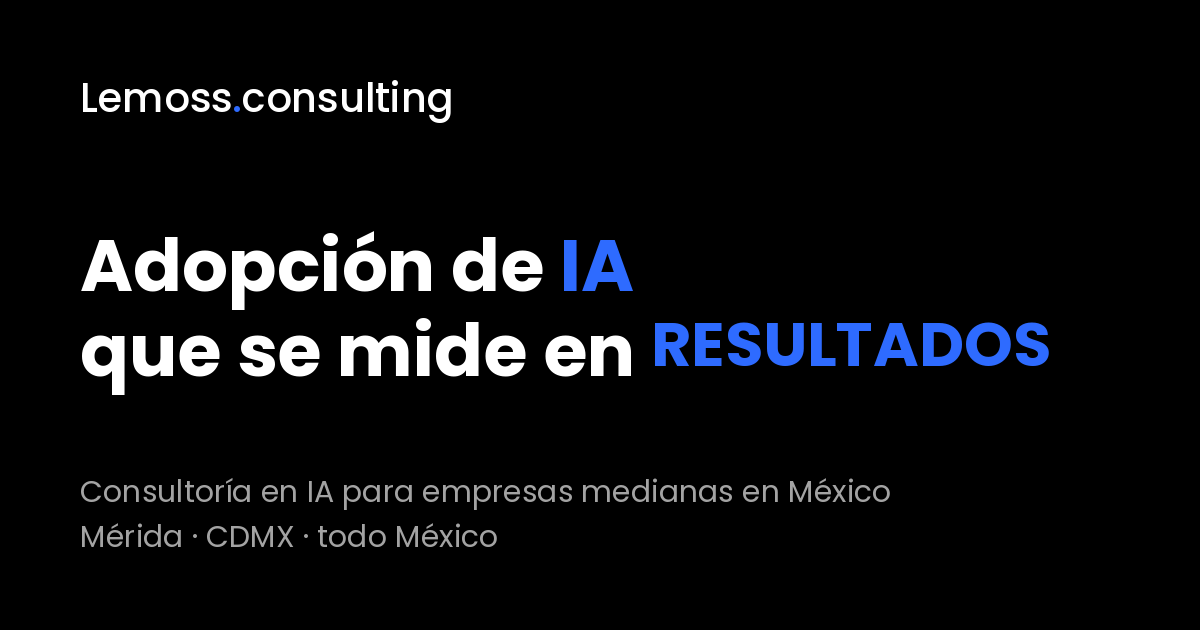
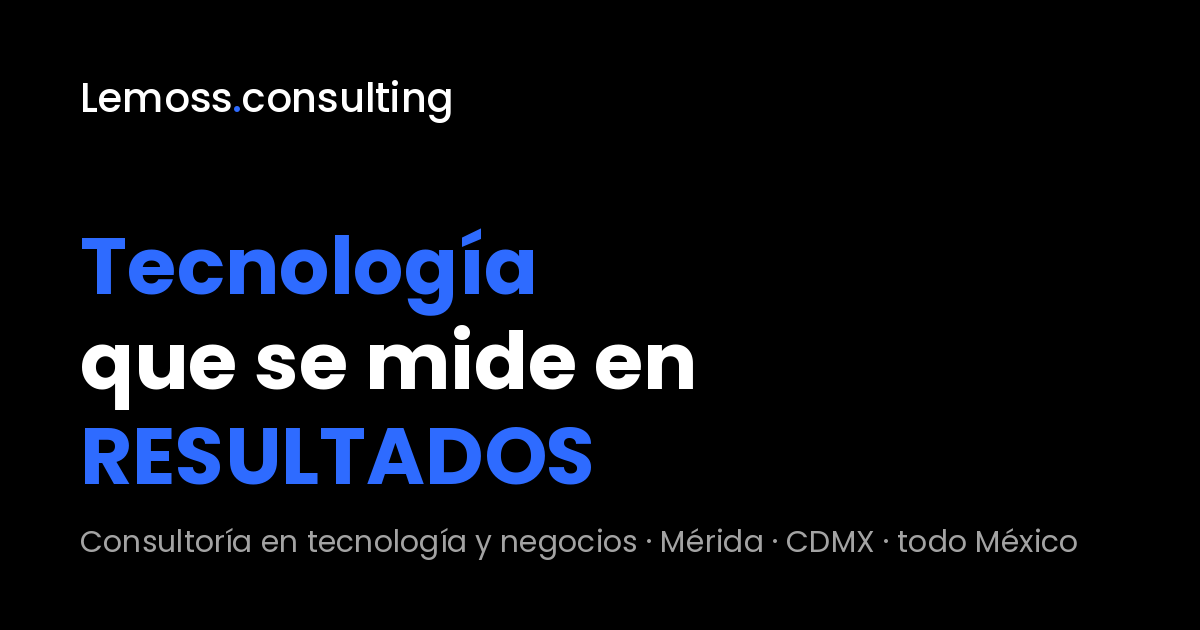
lemoss.co: reposiciona como consultoría en tecnología y negocios; IA vía timewins.ai
Claude-Session: https://claude.ai/code/session_01VRDKeWs85U62Gf7eqkwrSK

Changed region(s): [[0.0617, 0.3619, 0.8942, 0.9048]]

diff --git a/apps/lemoss/build.py b/apps/lemoss/build.py
@@ -9,7 +9,7 @@ HOY = datetime.date.today().isoformat()
 import hashlib
 CSS_V = hashlib.md5((ROOT / "assets" / "site.css").read_bytes()).hexdigest()[:10]
 WA = "525527069296"
-WA_TXT = "Hola, vengo de lemoss.co y quiero platicar sobre un proyecto de IA."
+WA_TXT = "Hola, vengo de lemoss.co y quiero platicar sobre un proyecto."
 EMAIL = "contacto@lemoss.co"
 
 SAME_AS = [
@@ -87,7 +87,7 @@ def layout(path, title, desc, body, schema=None, og_type="website", extra_head="
   <div class="wrap pie-in">
     <div>
       <a class="logo" href="/">lemoss<span>.</span></a>
-      <p class="muted">Consultoría en inteligencia artificial por resultados para empresas medianas en México. Sede en Mérida, con atención en CDMX y todo el país.</p>
+      <p class="muted">Consultoría en tecnología y negocios por resultados para empresas medianas en México. Sede en Mérida, con atención en CDMX y todo el país.</p>
     </div>
     <div>
       <h2 class="pie-t">Contacto</h2>
@@ -120,7 +120,7 @@ ORG = {
     "url": SITE + "/",
     "logo": SITE + "/assets/lemoss-logo-1024.png",
     "image": SITE + "/assets/og.png",
-    "description": "Consultoría en inteligencia artificial y automatización por resultados para empresas medianas en México: diagnóstico, piloto con meta pactada, implementación y operación.",
+    "description": "Consultoría en tecnología y negocios por resultados para empresas medianas en México: estrategia tecnológica, procesos, sistemas, ventas e inteligencia artificial, con diagnóstico, piloto con meta pactada, implementación y operación.",
     "email": EMAIL,
     "telephone": "+52 55 2706 9296",
     "priceRange": "Desde $18,000 MXN",
@@ -129,14 +129,14 @@ ORG = {
     "openingHoursSpecification": [{"@type": "OpeningHoursSpecification", "dayOfWeek": ["Monday", "Tuesday", "Wednesday", "Thursday", "Friday"], "opens": "09:00", "closes": "18:00"}],
     "founder": {"@id": SITE + "/sobre/#sebastian"},
     "sameAs": SAME_AS,
-    "knowsAbout": ["Inteligencia artificial aplicada a ventas", "Automatización de procesos", "CRM y WhatsApp Business API", "Agentes de IA", "Integración de sistemas", "Arquitectura de plataformas"],
+    "knowsAbout": ["Estrategia tecnológica", "Modelos de negocio de servicios tecnológicos", "Transformación digital", "Automatización de procesos", "Inteligencia artificial aplicada a negocios", "CRM y WhatsApp Business API", "Agentes de IA", "Integración de sistemas", "Arquitectura de plataformas"],
 }
 PERSONA = {
     "@context": "https://schema.org",
     "@type": "Person",
     "@id": SITE + "/sobre/#sebastian",
     "name": "Sebastián Lemos",
-    "jobTitle": "Consultor en inteligencia artificial y automatización",
+    "jobTitle": "Consultor en tecnología y negocios",
     "worksFor": {"@id": SITE + "/#lemoss"},
     "url": SITE + "/sobre/",
     "image": SITE + "/assets/lemoss-avatar-800.png",
@@ -146,7 +146,7 @@ PERSONA = {
 WEBSITE = {"@context": "https://schema.org", "@type": "WebSite", "@id": SITE + "/#web", "url": SITE + "/", "name": "Lemoss", "inLanguage": "es-MX", "publisher": {"@id": SITE + "/#lemoss"}}
 
 ETAPAS = [
-    ("Autodiagnóstico", "Gratis · 10 minutos", "Respondes ocho preguntas sobre tus procesos y sabes de inmediato qué tan lista está tu empresa para aprovechar la IA y por dónde conviene empezar.", "/autodiagnostico/", "Hacer el autodiagnóstico"),
+    ("Autodiagnóstico", "Gratis · 10 minutos", "Respondes ocho preguntas sobre tus procesos y sabes de inmediato qué tan listo está un proceso para automatizarse y por dónde conviene empezar.", "/autodiagnostico/", "Hacer el autodiagnóstico"),
     ("Diagnóstico", "Desde $18,000 MXN · se acredita 100%", "Revisamos contigo procesos, datos y sistemas, calculamos cuánto te cuesta hoy cada proceso y te entregamos un plan priorizado con el retorno esperado de cada caso. El monto se descuenta completo si avanzamos al piloto.", None, None),
     ("Piloto con meta pactada", "Desde $45,000 MXN · 30 a 60 días", "Elegimos un proceso, fijamos por escrito una meta medible (por ejemplo tiempo de respuesta, prospectos atendidos o horas ahorradas) y lo ponemos a funcionar con tu equipo real.", None, None),
     ("Implementación", "Proyecto cerrado, honorario + bono o garantía", "Con el piloto probado, escalamos a más procesos o áreas. Tú eliges el modelo: precio cerrado, honorario base más bono por resultado, o garantía de resultado con condiciones por escrito.", None, None),
@@ -155,10 +155,11 @@ ETAPAS = [
 ]
 
 SERVICIOS = [
-    ("Ventas y atención con IA", "Respuesta inmediata a cada prospecto, calificación automática, seguimiento por WhatsApp y un CRM que se actualiza solo. Tu equipo comercial habla solo con quien está listo para comprar.", ["Agentes de IA en WhatsApp y web", "Lead scoring y asignación automática", "CRM conectado a WhatsApp Business API", "Seguimiento y reactivación de prospectos"]),
-    ("Operación y procesos", "Inventario, pedidos, cotizaciones y reportes que hoy dependen de capturas manuales y hojas de cálculo, conectados y automatizados de punta a punta.", ["Mapeo y rediseño de procesos", "Integración ERP, CRM y hojas de cálculo", "Inventario y ventas automatizados", "Tableros con la información en tiempo real"]),
-    ("Contenido y comunicación", "Producción de contenido con IA y supervisión humana: investigación, redacción, piezas multimedia y publicación en redes con un flujo de aprobación claro.", ["Coordinación editorial asistida por IA", "Generación de video y carruseles", "Publicación programada multicanal", "Análisis de desempeño del contenido"]),
-    ("Plataformas y arquitectura", "Cuando lo que necesitas no existe en el mercado, diseñamos la arquitectura y construimos la plataforma: desde sistemas de gestión hasta servicios para entidades financieras.", ["Arquitectura de servicios (PaaS)", "Sistemas de gestión a la medida", "APIs, microservicios y migración a la nube", "Seguridad y manejo responsable de datos"]),
+    ("Estrategia tecnológica y de negocio", "Diagnóstico de cómo la tecnología puede hacer crecer tu negocio: hoja de ruta, prioridades, presupuesto y modelos de negocio de servicios tecnológicos, con el retorno esperado de cada iniciativa.", ["Diagnóstico y hoja de ruta tecnológica", "Modelos de negocio de servicios tecnológicos", "Evaluación y selección de proveedores", "Acompañamiento a dirección"]),
+    ("Procesos y operación", "Inventario, pedidos, cotizaciones y reportes que hoy dependen de capturas manuales y hojas de cálculo, rediseñados, conectados y automatizados de punta a punta.", ["Mapeo y rediseño de procesos", "Integración ERP, CRM y hojas de cálculo", "Inventario y ventas automatizados", "Tableros con la información en tiempo real"]),
+    ("Sistemas y plataformas", "Cuando lo que necesitas no existe en el mercado, diseñamos la arquitectura y construimos la plataforma: desde sistemas de gestión hasta servicios para entidades financieras.", ["Arquitectura de servicios (PaaS)", "Sistemas de gestión a la medida", "APIs, microservicios y migración a la nube", "Seguridad y manejo responsable de datos"]),
+    ("Ventas y atención", "Respuesta inmediata a cada prospecto, calificación automática, seguimiento por WhatsApp y un CRM que se actualiza solo. Tu equipo comercial habla solo con quien está listo para comprar.", ["CRM conectado a WhatsApp Business API", "Lead scoring y asignación automática", "Seguimiento y reactivación de prospectos", "Medición del embudo comercial"]),
+    ("Adopción de inteligencia artificial", "Implementación de IA en procesos reales con supervisión humana: agentes, contenido y análisis. Lo hacemos con timewins.ai, nuestra marca especializada en adopción y herramientas de IA.", ["Agentes de IA en WhatsApp y web", "Contenido y comunicación asistidos por IA", "Capacitación de equipos en IA", "Herramientas de timewins.ai"]),
 ]
 
 CASOS = [
@@ -208,18 +209,19 @@ INDUSTRIAS = [
 ]
 
 FAQ = [
-    ("¿Qué significa consultoría en IA por resultados?", "Que antes de implementar acordamos por escrito una meta medible, como tiempo de respuesta, prospectos atendidos u horas ahorradas, y el trabajo se evalúa contra esa meta. En etapas avanzadas parte de nuestros honorarios puede depender de alcanzarla."),
+    ("¿Qué significa consultoría por resultados?", "Que antes de implementar acordamos por escrito una meta medible, como tiempo de respuesta, prospectos atendidos u horas ahorradas, y el trabajo se evalúa contra esa meta. En etapas avanzadas parte de nuestros honorarios puede depender de alcanzarla."),
     ("¿Cuánto cuesta trabajar con Lemoss?", "El autodiagnóstico es gratis. El diagnóstico empieza en $18,000 MXN más IVA y se acredita al 100% si continuamos. Un piloto con meta pactada empieza en $45,000 MXN más IVA y dura de 30 a 60 días. La implementación se cotiza según el alcance, con precio cerrado, honorario más bono o garantía de resultado."),
     ("¿Cuánto tiempo tarda en verse un resultado?", "El piloto está diseñado para medir un resultado en 30 a 60 días sobre un proceso real de tu empresa."),
     ("¿Para qué tamaño de empresa es?", "Principalmente para empresas medianas, de 20 a 250 colaboradores, con venta consultiva o procesos operativos que hoy dependen de mucho trabajo manual."),
     ("¿Trabajan solo en Mérida?", "No. Nuestra sede está en Mérida y atendemos a empresas de la Ciudad de México y de todo el país de forma remota, con visitas presenciales cuando el proyecto lo requiere."),
     ("¿Tengo que cambiar mis sistemas actuales?", "Normalmente no. Primero conectamos lo que ya usas (CRM, ERP, hojas de cálculo, WhatsApp, correo) y solo proponemos cambiar una herramienta cuando el ahorro lo justifica."),
+    ("¿Qué relación tiene Lemoss con timewins.ai?", "timewins.ai es nuestra marca especializada en adopción de inteligencia artificial y en herramientas de IA listas para usar. Lemoss se encarga de la consultoría general en tecnología y negocios; cuando un proyecto incluye IA, lo implementamos con timewins.ai."),
     ("¿Qué pasa con la información de mi empresa?", "Se usa solo para el proyecto, bajo confidencialidad, con accesos controlados y revisión humana en los procesos críticos. Los detalles están en el aviso de privacidad."),
 ]
 
 
 # ---------- Bloques ----------
-def cta_final(titulo="¿Platicamos de tu proyecto?", texto="Cuéntanos qué proceso te quita más tiempo o dinero. En una llamada de 30 minutos te decimos si la IA puede resolverlo y cómo lo mediríamos."):
+def cta_final(titulo="¿Platicamos de tu proyecto?", texto="Cuéntanos qué proceso te quita más tiempo o dinero. En una llamada de 30 minutos te decimos si la tecnología puede resolverlo y cómo lo mediríamos."):
     return f"""<section class="sec cta-fin"><div class="wrap"><div class="cta-in">
 <h2>{titulo}</h2><p class="lead">{texto}</p>
 <div class="acciones"><a class="btn" href="{wa()}" rel="noopener">Escríbenos por WhatsApp</a><a class="btn btn-2" href="/autodiagnostico/">Hacer el autodiagnóstico</a></div>
@@ -270,20 +272,20 @@ def home():
     inds = "".join(f"<li><strong>{n}</strong><span>{d}</span></li>" for n, d in INDUSTRIAS)
     body = f"""
 <section class="hero"><div class="wrap">
-<h1>Adopción de <span class="az">IA</span> que se mide en <span class="az">RESULTADOS</span></h1>
-<p class="lead">Ayudamos a empresas medianas en México a automatizar ventas, atención y operación con IA. Antes de empezar acordamos una meta medible, y el trabajo se evalúa contra ella.</p>
+<h1><span class="az">Tecnología</span> que se mide en <span class="az">RESULTADOS</span></h1>
+<p class="lead">Consultoría en tecnología y negocios para empresas medianas en México: estrategia, procesos, sistemas, ventas e inteligencia artificial. Antes de empezar acordamos una meta medible, y el trabajo se evalúa contra ella.</p>
 <div class="acciones"><a class="btn" href="{wa()}" rel="noopener">Escríbenos por WhatsApp</a><a class="btn btn-2" href="/autodiagnostico/">Autodiagnóstico gratis</a></div>
 <p class="sello">Sede en Mérida · atención en CDMX y todo México</p>
 </div></section>
 
 <section class="sec"><div class="wrap dos">
-<div><h2>El problema casi nunca es la tecnología</h2></div>
-<div><p>La mayoría de los proyectos de IA que no dan resultados fallan por otra razón: se eligió un proceso que no estaba listo, nadie midió cuánto costaba antes, o no había un responsable dentro de la empresa.</p>
+<div><h2>El problema rara vez es la herramienta</h2></div>
+<div><p>La mayoría de los proyectos de tecnología que no dan resultados fallan por otra razón: se eligió un proceso que no estaba listo, nadie midió cuánto costaba antes, o no había un responsable dentro de la empresa.</p>
 <p>Por eso trabajamos al revés de lo habitual: primero el costo del problema y la meta, después la herramienta. Y avanzamos por etapas, para que solo inviertas más cuando ya viste un resultado.</p></div>
 </div></section>
 
 <section class="sec"><div class="wrap">
-<h2>Qué resuelvo</h2>
+<h2>Qué resolvemos</h2>
 <ul class="lista-serv">{servicios}</ul>
 <p><a href="/servicios/">Ver servicios y precios</a></p>
 </div></section>
@@ -308,7 +310,7 @@ def home():
 <section class="sec"><div class="wrap dos">
 <div><h2>Una familia de marcas</h2></div>
 <div class="marcas">
-<p><a href="https://timewins.ai" rel="noopener"><strong>timewins.ai</strong></a><br>Productos de IA listos para usar: creador de videos, creador de sitios web, pautador de anuncios y publicador de redes.</p>
+<p><a href="https://timewins.ai" rel="noopener"><strong>timewins.ai</strong></a><br>Nuestra marca especializada en adopción de inteligencia artificial: acompañamiento para implementar IA y herramientas listas para usar, como creador de videos, creador de sitios web, pautador de anuncios y publicador de redes.</p>
 <p><a href="https://iaprop.tech" rel="noopener"><strong>iaprop.tech</strong></a><br>IA y automatización para inmobiliarias y asesores.</p>
 <p><a href="https://estrategia.dental" rel="noopener"><strong>estrategia.dental</strong></a><br>Captación y atención de pacientes para clínicas dentales.</p>
 </div>
@@ -320,8 +322,8 @@ def home():
 </div></section>
 {cta_final()}
 """
-    return layout("/", "Lemoss | Consultoría en IA por resultados en México",
-                  "Consultoría en inteligencia artificial y automatización para empresas medianas en México. Diagnóstico, piloto con meta pactada e implementación. Sede en Mérida.",
+    return layout("/", "Lemoss | Consultoría en tecnología y negocios en México",
+                  "Consultoría en tecnología y negocios por resultados para empresas medianas en México: estrategia, procesos, sistemas, ventas e IA. Sede en Mérida.",
                   body, [ORG, WEBSITE, faq_schema(FAQ)])
 
 
@@ -337,14 +339,14 @@ def servicios():
 <li>Un plazo mínimo de 12 meses y las reglas de cálculo firmadas antes de empezar.</li>
 </ul>"""
     oferta = {"@context": "https://schema.org", "@type": "OfferCatalog", "name": "Servicios de Lemoss", "itemListElement": [
-        {"@type": "Offer", "itemOffered": {"@type": "Service", "name": "Autodiagnóstico de IA", "provider": {"@id": SITE + "/#lemoss"}}, "price": "0", "priceCurrency": "MXN"},
-        {"@type": "Offer", "itemOffered": {"@type": "Service", "name": "Diagnóstico de IA y automatización", "provider": {"@id": SITE + "/#lemoss"}}, "priceSpecification": {"@type": "PriceSpecification", "minPrice": 18000, "priceCurrency": "MXN", "valueAddedTaxIncluded": False}},
-        {"@type": "Offer", "itemOffered": {"@type": "Service", "name": "Piloto de IA con meta pactada", "provider": {"@id": SITE + "/#lemoss"}}, "priceSpecification": {"@type": "PriceSpecification", "minPrice": 45000, "priceCurrency": "MXN", "valueAddedTaxIncluded": False}},
+        {"@type": "Offer", "itemOffered": {"@type": "Service", "name": "Autodiagnóstico de procesos", "provider": {"@id": SITE + "/#lemoss"}}, "price": "0", "priceCurrency": "MXN"},
+        {"@type": "Offer", "itemOffered": {"@type": "Service", "name": "Diagnóstico tecnológico y de procesos", "provider": {"@id": SITE + "/#lemoss"}}, "priceSpecification": {"@type": "PriceSpecification", "minPrice": 18000, "priceCurrency": "MXN", "valueAddedTaxIncluded": False}},
+        {"@type": "Offer", "itemOffered": {"@type": "Service", "name": "Piloto con meta pactada", "provider": {"@id": SITE + "/#lemoss"}}, "priceSpecification": {"@type": "PriceSpecification", "minPrice": 45000, "priceCurrency": "MXN", "valueAddedTaxIncluded": False}},
     ] + [{"@type": "Offer", "itemOffered": {"@type": "Service", "name": t, "description": d, "provider": {"@id": SITE + "/#lemoss"}}} for t, d, _ in SERVICIOS]}
     body = f"""
 <section class="hero hero-sm"><div class="wrap">
 <h1>Servicios y precios</h1>
-<p class="lead">Cuatro áreas donde la IA ahorra tiempo o genera ventas de forma medible, y una ruta por etapas para que solo inviertas más cuando ya viste un resultado.</p>
+<p class="lead">Cinco áreas donde la tecnología ahorra tiempo o genera ventas de forma medible, y una ruta por etapas para que solo inviertas más cuando ya viste un resultado.</p>
 </div></section>
 <section class="sec"><div class="wrap grid-serv">{bloques}</div></section>
 <section class="sec"><div class="wrap">
@@ -358,8 +360,8 @@ def servicios():
 </div></section>
 {cta_final()}
 """
-    return layout("/servicios/", "Servicios y precios de consultoría en IA | Lemoss",
-                  "Ventas y atención con IA, automatización de procesos, contenido con IA y plataformas a la medida. Diagnóstico desde $18,000 MXN y piloto con meta pactada desde $45,000 MXN.",
+    return layout("/servicios/", "Servicios y precios de consultoría tecnológica | Lemoss",
+                  "Estrategia tecnológica, procesos, sistemas y plataformas, ventas y adopción de IA. Diagnóstico desde $18,000 MXN y piloto con meta pactada desde $45,000 MXN.",
                   body, [ORG, oferta, migas(("Servicios", "/servicios/"))])
 
 
@@ -372,7 +374,7 @@ def casos():
 <section class="sec"><div class="wrap lista-casos">{"".join(caso_tarjeta(c, True) for c in CASOS)}</div></section>
 {cta_final("¿Tu caso se parece a alguno?", "Escríbenos y te contamos cómo lo resolvimos y qué haríamos distinto en tu empresa.")}
 """
-    return layout("/casos/", "Casos de IA y automatización en empresas | Lemoss",
+    return layout("/casos/", "Casos de tecnología, automatización e IA | Lemoss",
                   "Casos reales: de 2 horas a 5 segundos de respuesta en una inmobiliaria, coordinación editorial con IA para 5 sitios de noticias, plataformas para financieras y más.",
                   body, [ORG, migas(("Casos", "/casos/"))])
 
@@ -400,14 +402,14 @@ f.addEventListener('submit',function(ev){ev.preventDefault();var t=0,n=%d;for(va
 var pct=Math.round(t/(n*2)*100),h,p;
 if(pct>=70){h='Tu proceso está listo para un piloto';p='Tiene volumen, está claro y hay datos. Es el escenario ideal para una prueba de 30 a 60 días con una meta medible.'}
 else if(pct>=45){h='Vas bien, con un par de huecos por cerrar';p='Conviene resolver primero las respuestas más bajas (normalmente documentar el proceso o calcular su costo). Un diagnóstico te dice exactamente cuáles.'}
-else{h='Primero conviene ordenar el proceso';p='Antes de invertir en IA, define cómo se hace bien y dónde vive la información. Te podemos orientar en una llamada sin costo.'}
+else{h='Primero conviene ordenar el proceso';p='Antes de invertir en tecnología, define cómo se hace bien y dónde vive la información. Te podemos orientar en una llamada sin costo.'}
 r.querySelector('h2').textContent=h+' ('+pct+'%%)';r.querySelector('p').textContent=p;
 var msg='Hola, hice el autodiagnóstico en lemoss.co y obtuve '+pct+'%%: '+h+'. Quiero platicar.';
 r.querySelector('a').href='https://wa.me/%s?text='+encodeURIComponent(msg);r.hidden=false;r.focus();});})();
 </script>""" % (len(PREGUNTAS), WA)
     body = f"""
 <section class="hero hero-sm"><div class="wrap">
-<h1>Autodiagnóstico de IA</h1>
+<h1>Autodiagnóstico de procesos</h1>
 <p class="lead">Piensa en un proceso concreto de tu empresa (atender prospectos, cotizar, inventario, cobranza) y responde ocho preguntas. Toma 5 minutos y no guardamos tus respuestas.</p>
 </div></section>
 <section class="sec"><div class="wrap estrecho">
@@ -415,8 +417,8 @@ r.querySelector('a').href='https://wa.me/%s?text='+encodeURIComponent(msg);r.hid
 <div id="res" class="resultado" hidden tabindex="-1" aria-live="polite"><h2></h2><p></p><a class="btn" href="{wa()}" rel="noopener">Platicarlo por WhatsApp</a></div>
 </div></section>
 """
-    return layout("/autodiagnostico/", "Autodiagnóstico gratis: ¿tu proceso está listo para la IA? | Lemoss",
-                  "Ocho preguntas para saber si un proceso de tu empresa está listo para automatizarse con inteligencia artificial y por dónde empezar. Gratis, sin registro.",
+    return layout("/autodiagnostico/", "Autodiagnóstico gratis: ¿tu proceso está listo para automatizarse? | Lemoss",
+                  "Ocho preguntas para saber si un proceso de tu empresa está listo para automatizarse, con o sin inteligencia artificial, y por dónde empezar. Gratis, sin registro.",
                   body + js, [ORG, migas(("Autodiagnóstico", "/autodiagnostico/"))])
 
 
@@ -424,13 +426,13 @@ def sobre():
     body = f"""
 <section class="hero hero-sm"><div class="wrap">
 <h1>Nosotros</h1>
-<p class="lead">Lemoss es una consultoría en inteligencia artificial y automatización para empresas medianas en México. Trabajas directamente con el consultor que diseña y pone a funcionar tu proyecto, sin intermediarios ni equipos que cambian a mitad del camino.</p>
+<p class="lead">Lemoss es una consultoría en tecnología y negocios para empresas medianas en México. Trabajas directamente con el consultor que diseña y pone a funcionar tu proyecto, sin intermediarios ni equipos que cambian a mitad del camino.</p>
 </div></section>
 <section class="sec"><div class="wrap dos">
 <div><h2>Experiencia en sistemas críticos</h2></div>
 <div>
 <p>Lemoss la dirige <strong>Sebastián Lemos</strong>, con más de veinte años en tecnología. Fue director de sistemas y fundó una empresa de servicios de mensajería SMS para bancos, donde se aprende lo que cuesta que un sistema falle cuando de él depende la operación de un cliente.</p>
-<p>Hoy aplicamos esa experiencia a la inteligencia artificial: diseñamos y ponemos a funcionar automatizaciones de ventas, atención y operación para empresas medianas, y desarrollamos productos propios bajo las marcas timewins.ai, iaprop.tech y estrategia.dental.</p>
+<p>Hoy aplicamos esa experiencia a la estrategia tecnológica y de negocio de empresas medianas: procesos, sistemas, ventas e inteligencia artificial. La adopción de IA y nuestras herramientas propias las ofrecemos a través de timewins.ai, y tenemos verticales especializadas en iaprop.tech (inmobiliario) y estrategia.dental (salud dental).</p>
 <p>Trabajamos desde Mérida con empresas de la Ciudad de México y de todo el país. Nuestra forma de trabajar es simple: medir antes, acordar una meta, probar en pequeño y crecer solo cuando el resultado está a la vista.</p>
 <p><a href="{PERSONA_SAME_AS[0]}" rel="noopener">Perfil de Sebastián Lemos en LinkedIn</a></p>
 </div>
@@ -447,8 +449,8 @@ def sobre():
 </div></section>
 {cta_final()}
 """
-    return layout("/sobre/", "Nosotros: consultoría en IA y automatización | Lemoss",
-                  "Lemoss, dirigida por Sebastián Lemos, con más de 20 años en tecnología. Consultoría en IA y automatización para empresas medianas en México desde Mérida.",
+    return layout("/sobre/", "Nosotros: consultoría en tecnología y negocios | Lemoss",
+                  "Lemoss, dirigida por Sebastián Lemos, con más de 20 años en tecnología. Consultoría en tecnología y negocios para empresas medianas en México desde Mérida.",
                   body, [ORG, PERSONA, migas(("Nosotros", "/sobre/"))])
 
 
@@ -553,7 +555,7 @@ def llms():
     arts = "\n".join(f"- [{a['titulo']}]({SITE}/blog/{a['slug']}/): {a['desc']}" for a in ARTICULOS)
     return f"""# Lemoss
 
-> Consultoría en inteligencia artificial y automatización por resultados para empresas medianas (20 a 250 colaboradores) en México. Sede en Mérida, Yucatán; atención en Ciudad de México y todo el país. Dirigida por Sebastián Lemos.
+> Consultoría en tecnología y negocios por resultados para empresas medianas (20 a 250 colaboradores) en México. Sede en Mérida, Yucatán; atención en Ciudad de México y todo el país. Dirigida por Sebastián Lemos.
 
 Lemoss (también Lemoss Consulting) acuerda con cada cliente una meta medible antes de implementar y trabaja por etapas, desde un autodiagnóstico gratuito hasta la participación en resultados.
 
@@ -567,7 +569,7 @@ Lemoss (también Lemoss Consulting) acuerda con cada cliente una meta medible an
 {casos}
 
 ## Marcas relacionadas
-- [timewins.ai](https://timewins.ai): productos de IA (creador de videos, creador de sitios web, pautador de anuncios, publicador de redes).
+- [timewins.ai](https://timewins.ai): marca de Lemoss especializada en adopción de inteligencia artificial y herramientas de IA (creador de videos, creador de sitios web, pautador de anuncios, publicador de redes).
 - [iaprop.tech](https://iaprop.tech): IA y automatización para inmobiliarias.
 - [estrategia.dental](https://estrategia.dental): captación y atención de pacientes para clínicas dentales.
 
